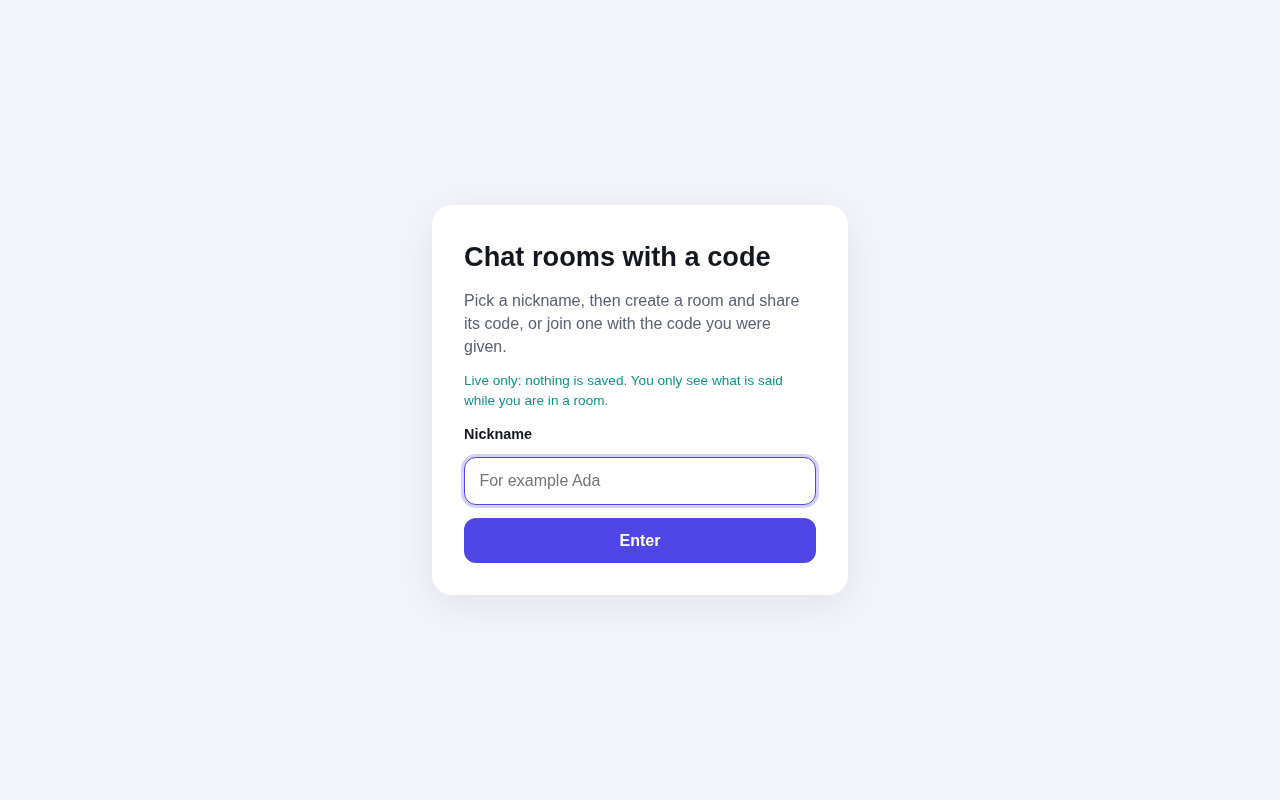
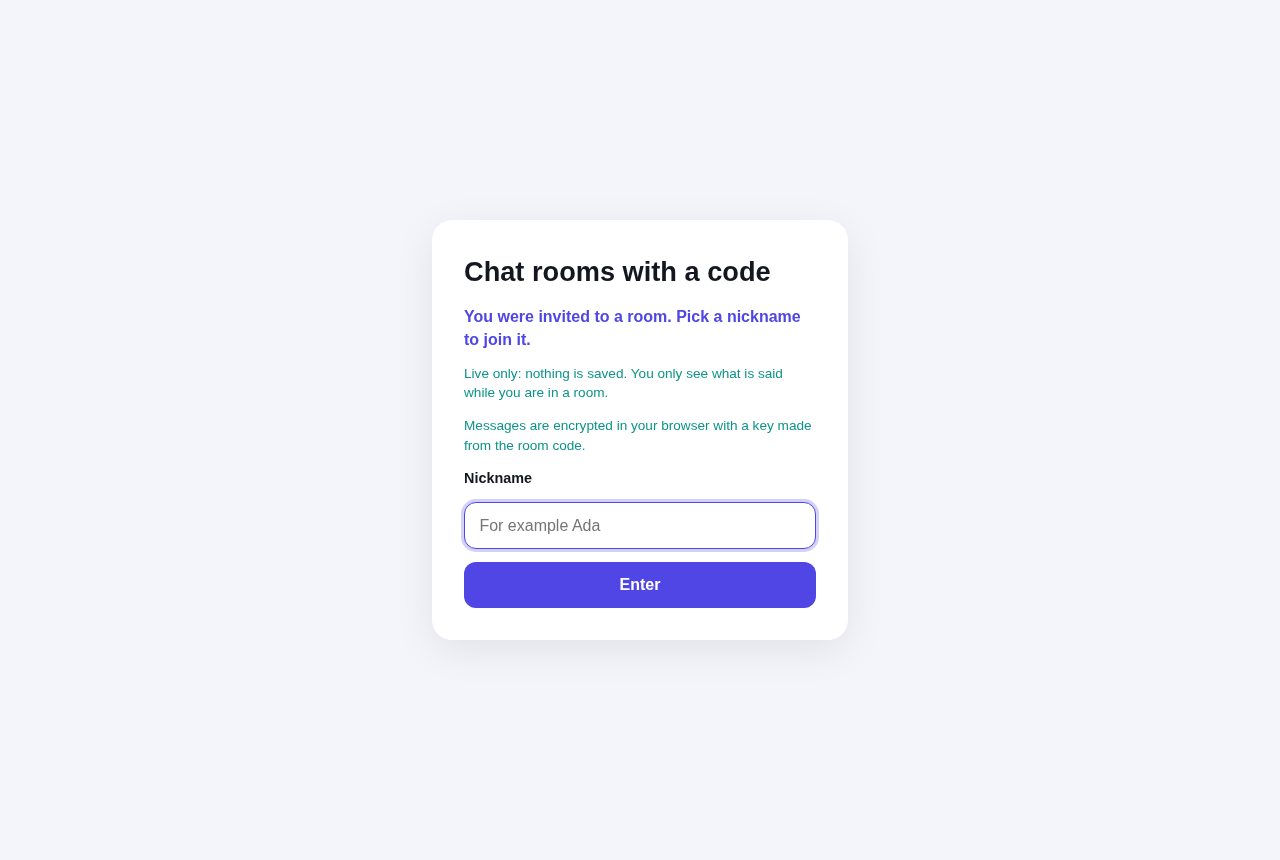
docs: README for encryption, the cluster, and everything else; new screenshots

Changed region(s): [[0.3438, 0.2812, 0.6562, 0.7188]]

diff --git a/README.md b/README.md
@@ -1,24 +1,33 @@
 # Chat rooms joined with a code: live only (Vue 3 + Socket.IO)
 
-Chat rooms with two rules. **A room can only be entered with its code**, and **nothing is ever stored**. A message is relayed to the people who are in the room at that moment and that is all: join late, or reconnect, and the room looks empty. There are no accounts: you pick a nickname, then create a room and share its code, or join one with the code you were given.
+Chat rooms with two rules. **A room can only be entered with its code**, and **nothing is ever stored**. A message is relayed to the people who are in the room at that moment and that is all: join late, or reconnect, and the room looks empty. There are no accounts: you pick a nickname, then create a room and share its code (or an invite link), or join one with the code you were given. What people write is **encrypted in their browser** with a key made from the room code, and the server can **run on several machines** sharing the chat through Redis.
 
 | | | |
 | :---: | :---: | :---: |
-| <img src="docs/screenshots/welcome.png" width="260" alt="The first screen: choose a nickname"> | <img src="docs/screenshots/phone-rooms.png" width="170" alt="The rooms you are in, on a phone"> | <img src="docs/screenshots/phone-chat.png" width="170" alt="A room on a phone: the code on its own row, and a late joiner who only sees what is said after arriving"> |
+| <img src="docs/screenshots/welcome.png" width="250" alt="The first screen, for somebody who came with an invite link"> | <img src="docs/screenshots/invite.png" width="250" alt="The invite dialog with a QR code"> | <img src="docs/screenshots/phone.png" width="160" alt="A room on a phone: a late joiner only sees what is said after arriving"> |
 
-<img src="docs/screenshots/chat.png" alt="A conversation in the Study group room: your rooms on the left, the room's code in the header">
+<img src="docs/screenshots/conversation.png" alt="A conversation: a reply, a mention, a photo, a voice message with its waveform, reactions">
 
-A wrong code: [docs/screenshots/wrong-code.png](docs/screenshots/wrong-code.png). The conversation in dark mode: [docs/screenshots/chat-dark.png](docs/screenshots/chat-dark.png).
+More: [recording a voice message](docs/screenshots/recording.png) · [unread counters, with a mention](docs/screenshots/unread.png) · [dark mode](docs/screenshots/dark.png) · [in French](docs/screenshots/french.png)
 
-## How it works
+## What you can do
 
-- **Create a room**: give it a name and you are inside, with its **code** (six letters and digits such as `K7M 2QX`) shown in the header, with a Copy button. Send the code to whoever should come in.
-- **Join a room**: type the code (any case, with or without the space). That is the only way in. Rooms **cannot be browsed or listed**, and the server never sends anyone a list of rooms.
-- **Live only**: the server keeps no history and the browser stores nothing (no cookie, no local storage). Leaving a room forgets everything said in it.
-- **A room exists while somebody is in it.** When the last person leaves, the room closes and its code stops working. If the last person was only disconnected, the room stays open for a minute, so a connection that blips does not cost you your room and its code.
-- Everybody in a room sees who else is in it, "Ada joined" / "Bob left" notices, a typing indicator and message times. Nicknames are unique among the people online (2 to 20 characters; "ada" and "Ada" are the same).
-- If the connection drops, the page says hello again with the same nickname and goes back into its rooms using their codes.
-- Light and dark themes; on a phone, the room list and the conversation take turns.
+- **Rooms and codes**: create a room and you are inside, running it, with its **code** (six letters and digits such as `K7M 2QX`). Anybody who has the code can come in; nobody else can. Rooms cannot be browsed or listed.
+- **Invite**: an **invite link** (`/#/join/K7M2QX`, the code is after the `#`, which browsers never send to a server) and a **QR code** to scan with a phone, with the share sheet where the browser has one. The code is taken out of the address bar as soon as the page has read it.
+- **Messages**: text, **photos** (shrunk to 900 px in the browser), **voice messages** (up to 30 seconds, recorded with a **live scrolling waveform**, shown as loudness bars that fill while they play), **replies** (the quoted message is shown), **edit** and **delete** (your own), **reactions** (👍 ❤ 😂 😮 😢 🎉), **@mentions** (highlighted, yours in a stronger colour) and **whispers** to one person (`/w Nickname message`).
+- **Keeping up**: an unread counter per room (with a mark when somebody mentioned you), the count in the browser tab title, an optional beep and optional desktop notifications (which never contain what was said), "typing…", who is in the room, "joined / left" notices.
+- **Running a room**: the person who runs it can **lock** it (nobody new comes in, but people who were in can come back after a connection blip), **remove** somebody (who cannot come back with the code), or make a **new code** (the old one stops working, and so does the old key). If the owner leaves, the person who has been there longest takes over. Anybody can **mute** somebody: their messages disappear from your screen only.
+- **Live only**: the server keeps no history and the browser stores nothing (no cookie, no local storage). Leaving a room forgets everything said in it. A room exists while somebody is in it; if the last person was only disconnected it stays open for a minute, so a blip does not cost you your room and code.
+- **Reconnection**: if the connection drops, the page says hello again with the same nickname and goes back into its rooms using their codes.
+- **Installable** as an app (the page's files are kept for fast starts; never what was said), **light and dark themes**, **English and French** (the language of the browser, changeable in the settings), a layout for phones.
+
+## Encryption, and its limit
+
+Every message body (text, photo, voice message, edit, whisper) is encrypted in the sender's browser with AES-GCM before it leaves, with a key made from the room code (PBKDF2, 310,000 iterations), and decrypted by the others in the room. The server only relays the encrypted text and measures its size: it cannot read it, and nor can anybody who watches the network or the server's logs.
+
+**The honest limit:** a code has 6 characters, about 30 bits. It is a password, not a strong key. Whoever records the encrypted traffic *and* then tries every possible code offline could read it (about 9 hours for the whole space on one very fast graphics card, at 10 billion PBKDF2 iterations a second). Making a new code changes the key. For secrecy against a determined attacker you would add a long secret to the invite link (after the `#`) that is never sent anywhere; the server's other protections (below) are about who can *get in*, not about this.
+
+Photos and voice messages are checked by the page that receives them (an image must be a JPEG, PNG or WebP data URL, never an SVG or a script; audio must be a known kind): anything else is shown as "this message could not be read".
 
 ## Run it
 
@@ -34,79 +43,122 @@ npm run dev-server                # Socket.IO server on :3000 (restarts on chang
 npm run dev                       # Vite dev server on http://localhost:5173
 ```
 
-Or with Docker (page and chat in one container):
+Or with Docker (page and chat in one container): `docker compose up --build` → http://localhost:3000. `nix develop` gives you Node 22 and Docker Compose if you use Nix.
 
-```bash
-docker compose up --build         # http://localhost:3000
-```
-
-`nix develop` gives you Node 22 and Docker Compose if you use Nix.
+Voice messages, notifications and the installable app need a secure context: `localhost` or HTTPS.
 
 | Variable | Default | |
 | --- | --- | --- |
 | `PORT` | `3000` | port of the server |
 | `CORS_ORIGIN` | `http://localhost:5173,http://127.0.0.1:5173` | pages that may connect from another address (comma-separated, or `*`). Not needed when the server serves the page itself |
 | `VITE_SOCKET_URL` | this site (production), `http://<host>:3000` (dev) | address of the server, set at build time |
+| `REDIS_URL` | not set | with a Redis, several servers share the chat (see below) |
+| `INSTANCE_ID` | random | the name of this server in a cluster |
+| `MESSAGE_SECRET` | random, or shared through Redis | signs the proofs that let you edit your own messages |
+| `TRUST_PROXY` | `0` | `1`: read the visitor's address from `X-Forwarded-For` (only behind a proxy that sets it itself, as `deploy/nginx.conf` does) |
+
+## Several servers
+
+On its own, the server keeps everything in its memory. With `REDIS_URL` it keeps *who is online and which rooms exist* in Redis instead, so that any number of servers behind a load balancer behave as one chat:
+
+```
+                         ┌─────────┐        ┌─────────────────────────────┐
+ browsers ── WebSocket ─►│  nginx  │───────►│ chat1 ◄──┐       ┌──► chat2 │
+                         └─────────┘        └──────────┼───────┼──────────┘
+                                                       ▼       ▼
+                                             Redis: nicknames, rooms, codes, who is in them (no messages)
+                                                 + pub/sub that carries each message to the other servers
+```
+
+```bash
+docker compose -f docker-compose.scale.yaml up --build     # Redis, two chat servers, nginx on http://localhost:8080
+npm run scale-check                                         # people on different servers find each other
+```
+
+- **State in Redis**: each change that must not be interrupted (taking a nickname, entering a room that has one place left, closing a room when its last person leaves, handing a room to somebody else) is a **Lua script**, which Redis runs as one step: two servers can never give the same nickname or the same code, or overfill a room. Messages are never written to Redis: they go through its pub/sub (the Socket.IO Redis adapter) and are gone once delivered.
+- **Any server takes any visitor**: the page uses WebSockets only, so the load balancer needs no sticky sessions.
+- **Wrong codes are counted across servers**, so trying one guess on each server in turn does not help.
+- **A server that dies** (killed, crashed, machine lost) would leave its people "online" for ever. Every server refreshes a heartbeat key that expires; the others notice a missing one, remove that server's people, free their nicknames and tell the rooms ("Bob left", a new owner if needed). In the Docker test, a killed server was noticed after about 12 seconds. nginx gives up on a dead server after 2 seconds, so visitors are not kept waiting.
+- **No stale state**: every change of a room (somebody joins or leaves, a lock, a new code, a new owner) raises a revision number that travels with the room's description. Two servers announcing at nearly the same moment can deliver their messages in either order, so a page ignores any description older than the one it has. (A test in this repo failed about one run in four before this was added: a join announcement, computed a moment before a lock, arrived after it and undid it on screen.)
+- **Proofs are shared**: the secret that signs the right to edit a message is made by the first server and read from Redis by the others (or set with `MESSAGE_SECRET`), so you can reconnect to another server and still edit your message.
+- **Not done**: Redis itself is a single point of failure (use a managed or replicated Redis for that); and the rooms are in one Redis, which is the limit of this design.
 
 ## Rules enforced by the server
 
-Everything the client sends is untrusted, so the server checks it (see `server/rooms.js`):
+Everything the client sends is untrusted, so the server checks it (see `server/rooms.js`). Every refusal has a stable `code`, which is how the page shows it in French or English.
 
 | | |
 | --- | --- |
-| room code | 6 characters from 32 (no `0/O` or `1/I`, easy to mix up): about a billion codes, chosen at random, unique among open rooms |
-| wrong codes | 10 per address every 5 minutes, then even the right code is refused until the window passes: two guesses a minute per address, against a billion possible codes |
-| nickname | 2 to 20 letters, digits, spaces, `.`, `_`, `-`; unique among people online |
+| room code | 6 characters from 32 (no `0/O` or `1/I`): about a billion codes, chosen at random, unique among open rooms |
+| wrong codes | 10 per address every 5 minutes, then even the right code is refused until the window passes: two guesses a minute against a billion codes. The limit is shared by all servers; behind a proxy set `TRUST_PROXY=1` so that each visitor has their own |
+| nickname | 2 to 20 letters, digits, spaces, `.`, `_`, `-`; unique among people online (across servers) |
 | room name | 2 to 30 characters; two rooms can share a name, their codes tell them apart; at most 200 rooms |
-| message | text, 1 to 500 characters; at most 5 per 5 seconds per connection |
-| room | at most 200 people; one person can be in at most 10 rooms |
-| payload | anything over 10 KB is dropped by Socket.IO before it is read |
+| message | the server cannot read it, so it measures it: up to 6,000 characters of encrypted text (500 characters), or 450 KB for a photo or voice message. Text: 5 per 5 seconds per connection; photos and voice: 3 per 10 seconds |
+| edit and delete | only the author: the server gives the sender a signed **proof** with each message (never relayed to others); edit and delete must present it |
+| reactions, whispers | reactions from the fixed list only; a whisper only to somebody who is in the room |
+| room | at most 200 people; one person can be in at most 10 rooms; only the owner locks, removes or changes the code |
+| payload | anything over the largest allowed message is dropped by Socket.IO before it is read |
 
-Messages are shown by Vue as text, never as HTML. The wrong-code limit works per network address and the server does not read `X-Forwarded-For`: behind a reverse proxy every visitor would look like the proxy and share one limit, so put it behind one only after adding that. `/health` shows only how many people and rooms there are, never names or codes.
+Messages are shown by Vue as text, never as HTML. `/health` shows only how many people and rooms there are, never names or codes.
 
 ## Protocol (Socket.IO)
 
-Client to server, each with an acknowledgement `{ ok: true, ... }` or `{ error }`:
+Client to server, each with an acknowledgement `{ ok: true, ... }` or `{ error, code, params }`:
 
 | Event | Data | Answer |
 | --- | --- | --- |
-| `hello` | `{ nickname }` | `user` (required before anything else) |
-| `room:create` | `{ name }` | `room` (with its `code`), `members`: you are inside |
+| `hello` | `{ nickname }` | `user`, `instance` (required before anything else) |
+| `room:create` | `{ name }` | `room` (with its `code`), `members`: you are inside, and run it |
 | `room:join` | `{ code }` | `room`, `members` |
 | `room:leave` | `{ room }` | |
-| `message` | `{ room, text }` | `id` |
+| `message` | `{ room, body, replyTo? }` | `id`, `at`, `proof` |
+| `message:edit` / `message:delete` | `{ room, id, proof, body? }` | |
+| `message:react` | `{ room, id, emoji, on }` | |
+| `whisper` | `{ room, to, body }` | `id` |
+| `room:lock` / `room:kick` / `room:newcode` | `{ room, locked }` / `{ room, id }` / `{ room }` | `room` |
 | `typing` | `{ room, typing }` | (no answer) |
 
-Server to the people in a room: `message`, `typing`, `room:members` (who is in) and `room:event` (join / leave notices). `GET /health` answers `{ status, online, rooms }`.
+`body` is the encrypted text. Server to the people in a room: `message`, `message:edited`, `message:deleted`, `message:reaction`, `typing`, `room:members`, `room:event` (join / leave / kick / owner notices), `room:updated` (head count, lock, owner, code, and a revision `rev`); to one person: `whisper`, `room:kicked`. `GET /health` answers `{ status, instance, online, rooms }`.
 
 ## Tests
 
 ```bash
-npm test                  # 103 tests: the rules, the server with real sockets, the chat store, the components
-npm run test:coverage     # with a coverage report (about 86%, 95% on the server)
-npm run build             # type-checks the code and the tests, then builds
+npm test                        # 208 tests without Redis (43 more are skipped)
+REDIS_URL=redis://localhost:6379 npm test   # 251 tests, with the Redis registry and two real servers
+npm run test:coverage           # with a coverage report (about 83%, 97% on the server)
+npm run build                   # type-checks the code and the tests, then builds
 ```
 
-The server tests start a real server on a free port and connect several real clients: a room cannot be entered without its code (its id is not a way in either), rooms are never listed, messages reach only the people in the room, nothing is stored (a late joiner sees nothing), a room closes when the last person leaves, brute-forcing codes is stopped, rate limits and payload checks. The chat-store test also cuts a connection and checks that the page comes back into its room with the same code.
+- **The rules** (`server/rooms.js`) and the **Redis registry** (`server/redis.js`) are tested by *one* list of tests (`registry.contract.js`) run against both, so they cannot disagree.
+- **The server** is tested with real sockets: a room cannot be entered without its code, nothing is stored, edit and delete need the proof, reactions, whispers, owner tools, rate limits, payload limits, brute-forcing codes, addresses behind a proxy.
+- **A cluster** is tested with two real servers on one Redis: people on different servers share nicknames, rooms, messages, whispers and typing; the owner's tools work across servers; wrong codes are counted together; a server that "crashes" is cleaned up after.
+- **The client**: the chat store against the real server (end to end, with real encryption: a bare connection in the room only ever sees ciphertext), every component, the encryption, the translations (French has every sentence English has, and **every refusal code the server can make is translated**), and the parsing of mentions, whispers and invite links.
+- The whole flow was also driven in a real browser (invite link, photo, voice with a fake microphone, QR code, unread counters, French, phone layout), which is how the screenshots above were made.
 
 ## CI/CD
 
-`.github/workflows/main.yml` runs on every push and pull request: install (`npm ci`), build and type-check, tests with coverage (uploaded as an artifact, and to Codecov when a `CODECOV_TOKEN` secret exists), then it builds the Docker image, starts it and checks `/health`.
+`.github/workflows/main.yml` runs on every push and pull request: install (`npm ci`), build and type-check, **all the tests against a Redis service**, with coverage (uploaded as an artifact, and to Codecov when a `CODECOV_TOKEN` secret exists); then it builds the Docker image and checks `/health`; then it starts **Redis, two servers and nginx** and runs `npm run scale-check`.
 
 `docker-compose.jenkins.yaml` starts a local Jenkins (with a Docker-in-Docker service) from `jenkins.Dockerfile`, to experiment with CI/CD. It is optional and not needed to run the chat.
 
 ## Project layout
 
 ```
-server.js                entry point: starts the server (and serves dist/ when it has been built)
-server/rooms.js          the rules: nicknames, rooms, codes, members, limits, rate limiters (no Socket.IO)
-server/index.js          the Socket.IO server and the tiny static file server
-src/composables/chat.ts  the chat on the client: connection, rooms, messages, reconnection
-src/components/          NicknameForm, RoomList, ChatPanel
-src/App.vue              the layout
-Dockerfile               one image for the page and the server
+server.js                 entry point: one server, or one of a cluster when REDIS_URL is set
+server/rooms.js           the rules: nicknames, rooms, codes, owners, limits, rate limiters (in memory)
+server/redis.js           the same registry on Redis (Lua scripts), the shared counter, heartbeat and janitor
+server/index.js           the Socket.IO server, the tiny static file server, /health
+server/proof.js           the signed proofs that let you edit your own messages
+src/composables/chat.ts   the chat on the client: connection, rooms, encryption, messages, reconnection
+src/crypto.ts, media.ts   encryption with the room code; photos and voice recording
+src/components/           NicknameForm, RoomList, ChatPanel, MessageItem, Composer, InviteDialog, WaveBars
+src/i18n.ts               English and French
+public/                   manifest, service worker, icons (the installable app)
+deploy/nginx.conf         the load balancer of the cluster
+docker-compose*.yaml      one server, or Redis + two servers + nginx; Jenkins for CI experiments
+scripts/scale-check.mjs   checks a running cluster from the outside
 ```
 
 ## Tech stack
 
-Vue 3 (`<script setup>`), TypeScript, Vite 7, Socket.IO 4, Node.js 22, Vitest 5 and Vue Test Utils, GitHub Actions, Docker.
+Vue 3 (`<script setup>`), TypeScript, Vite 7, Socket.IO 4 (+ Redis adapter), Node.js 22, Redis (ioredis, Lua), Web Crypto, MediaRecorder, Vitest 5 and Vue Test Utils, GitHub Actions, Docker, nginx.
